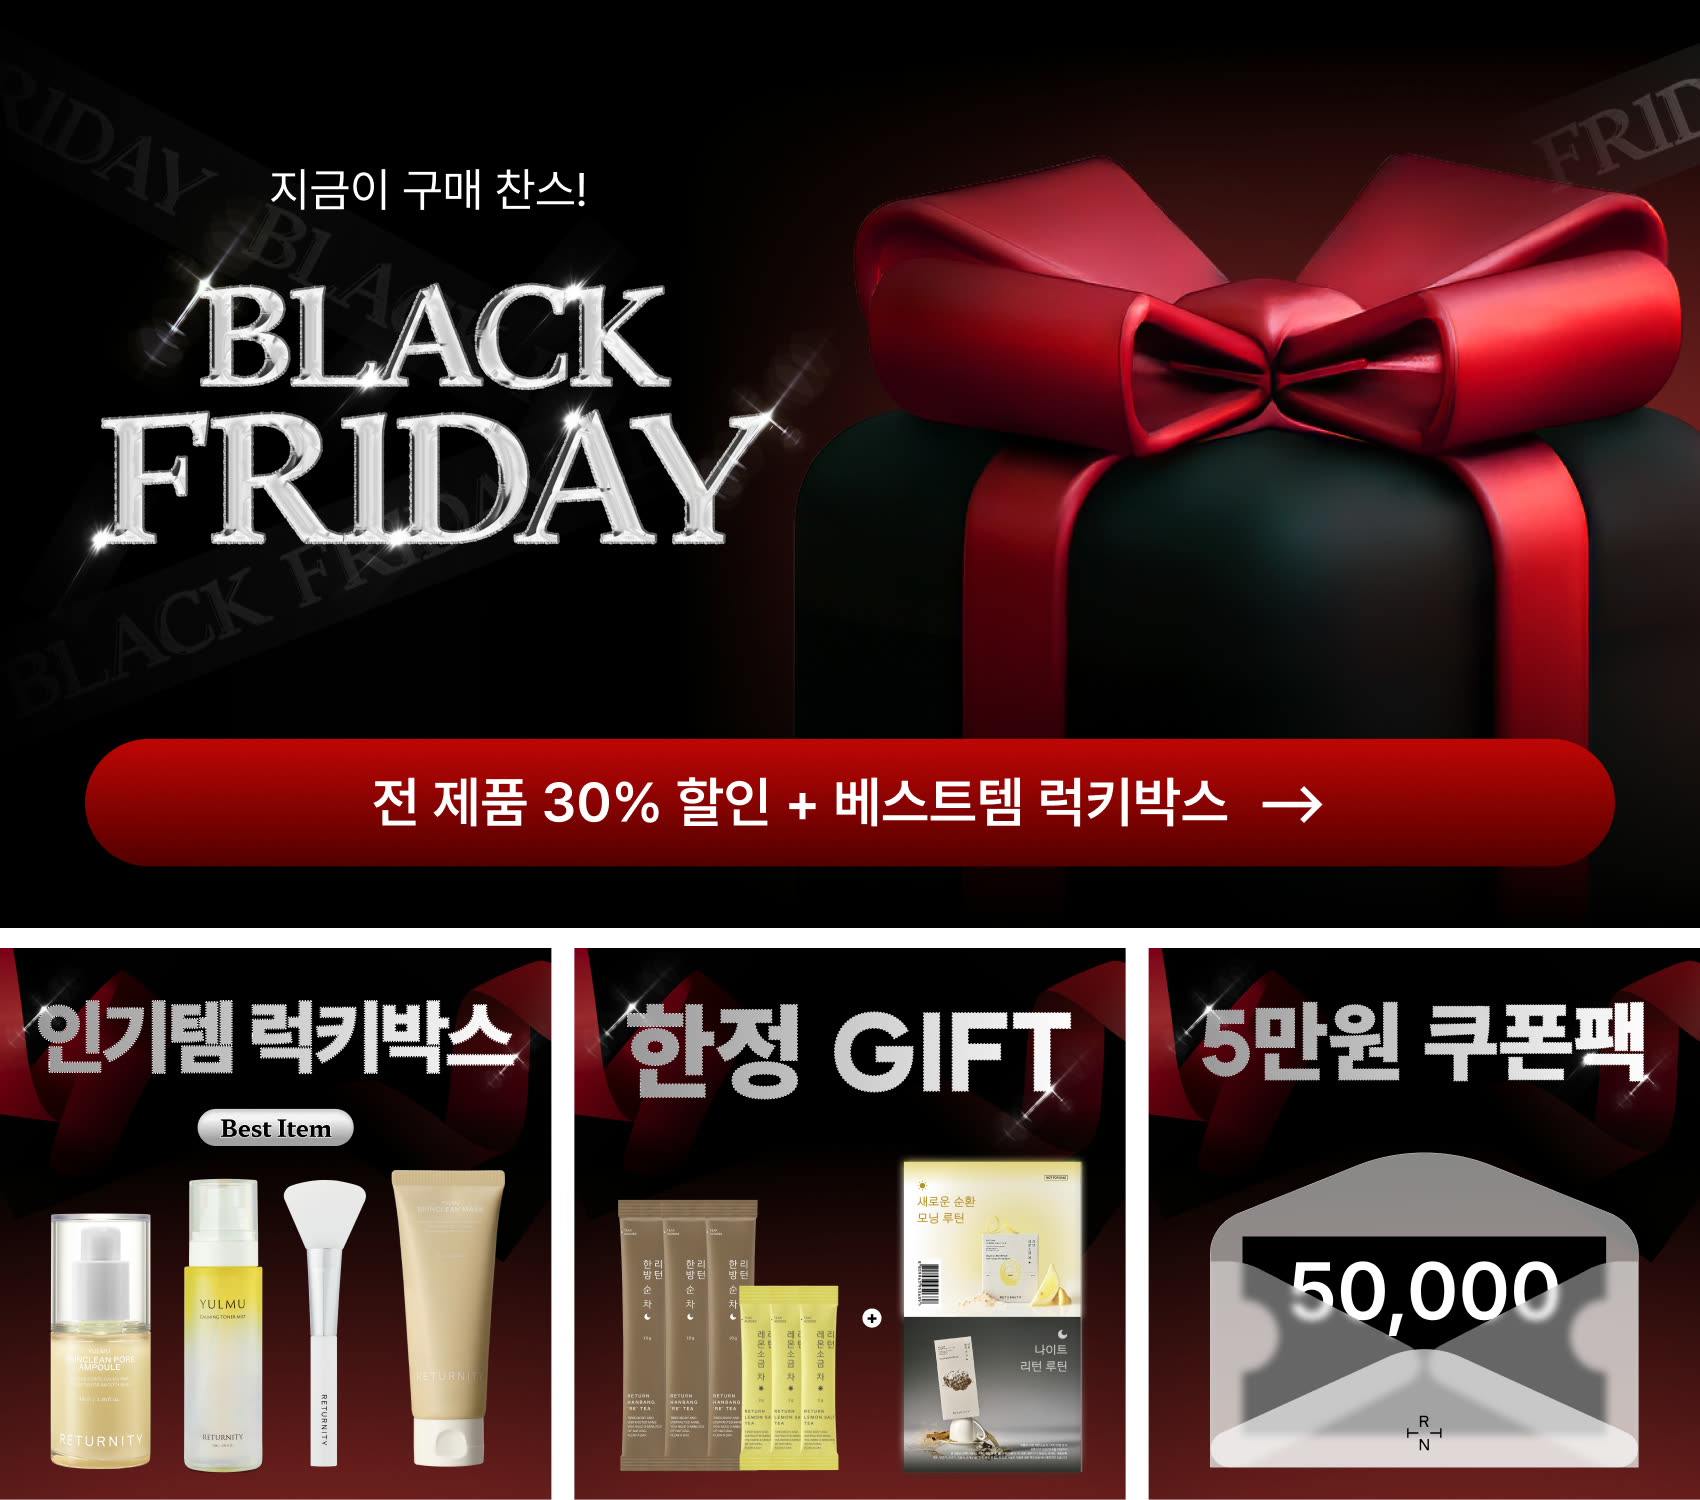
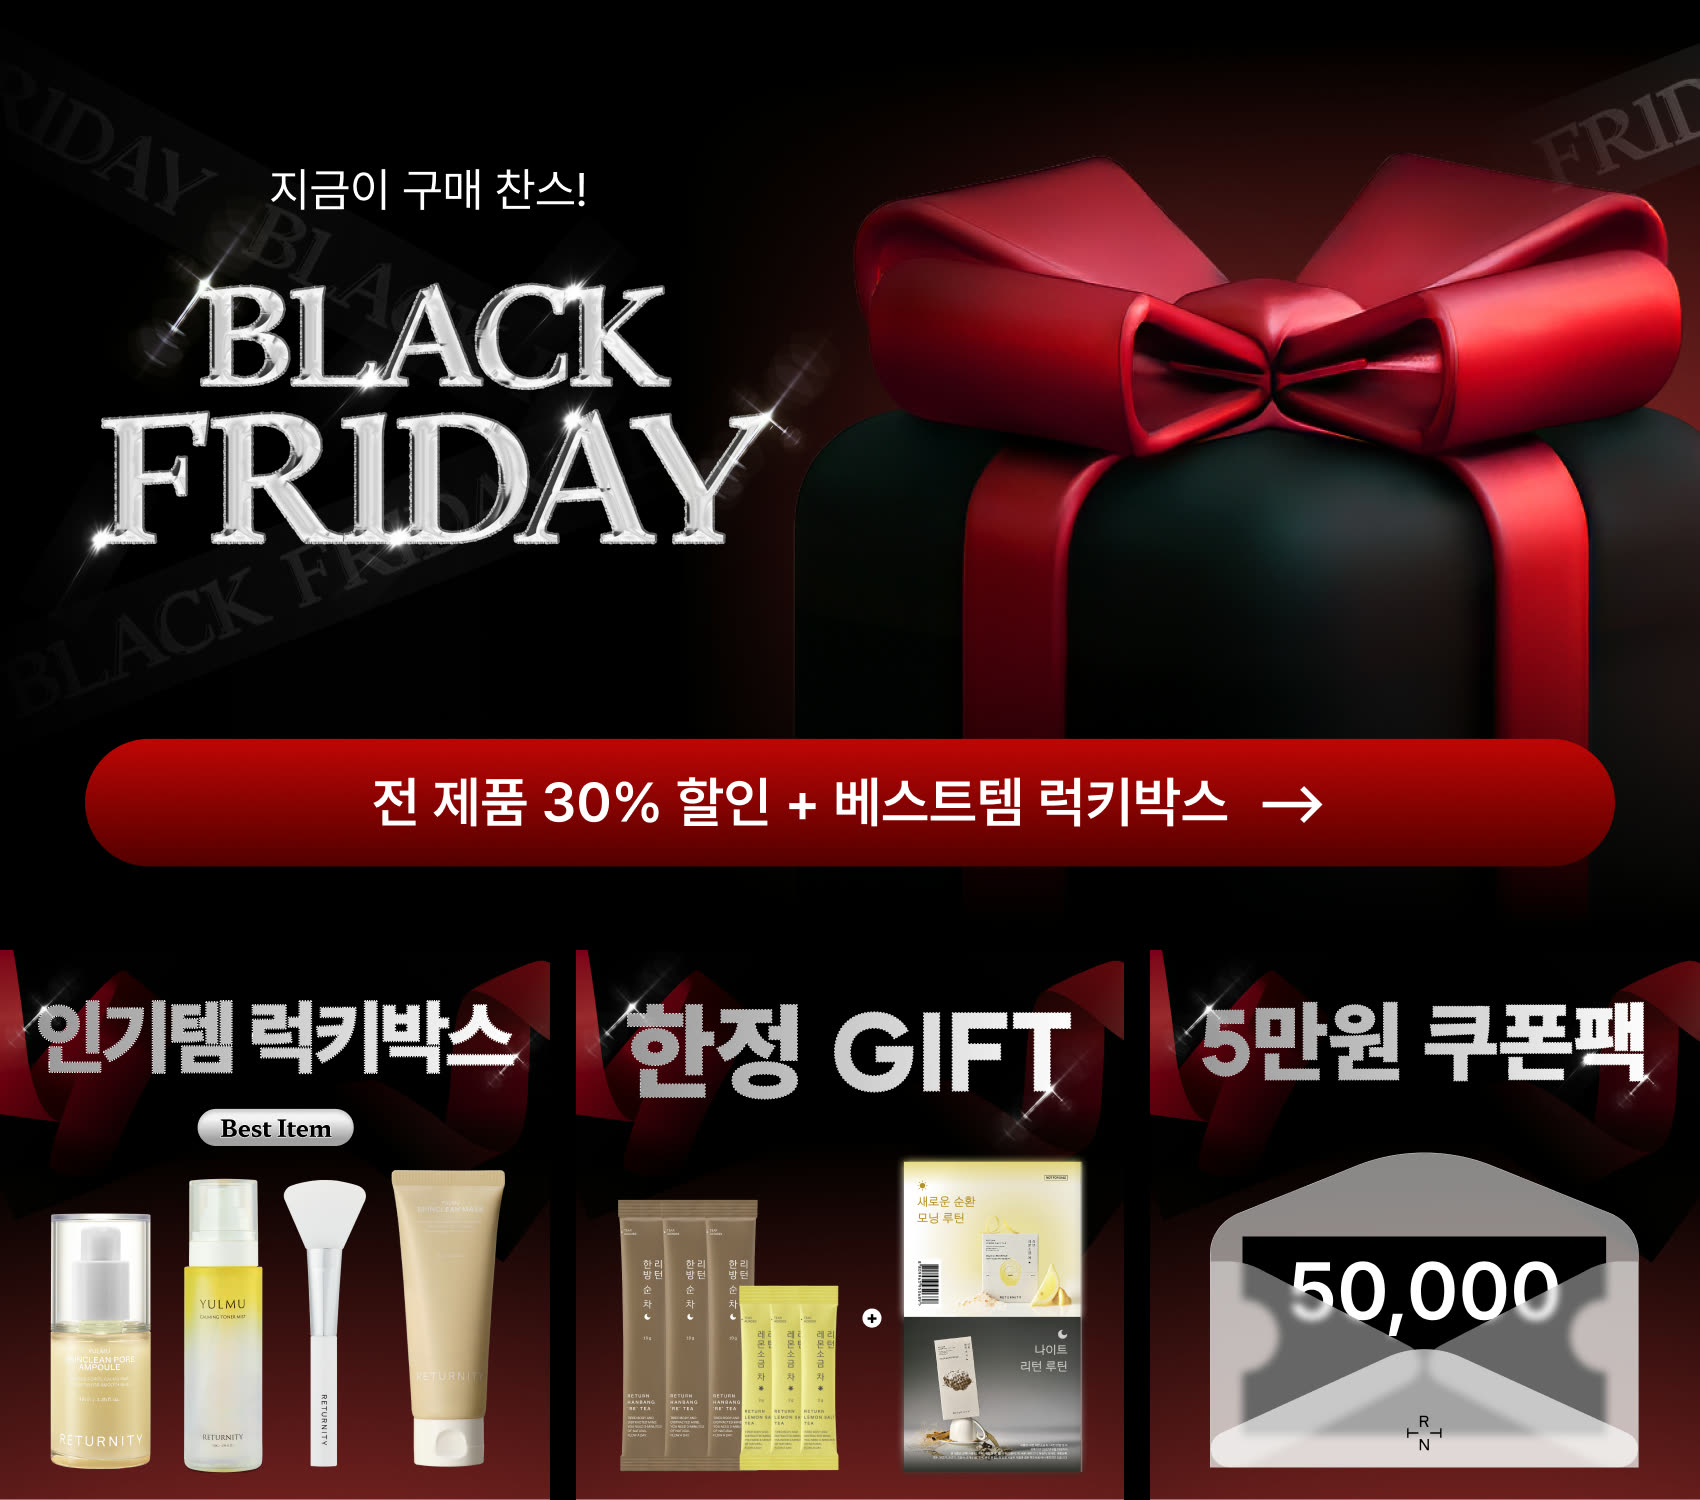
블프 배너 흰 줄 제거, 어워즈 랜딩 잘린 끝부분 복원
1) 블랙프라이데이 서브 배너(w2)의 흰 가로/세로 줄 제거
   Figma 프레임(610:5026) 배경이 흰색인데 카드 사이 여백으로 그대로
   노출된 것이었다. 내 크롭 문제가 아니라 원본 export 에 이미 들어 있었다
   (원본에서 y=928~947 20행, 세로 x=552~573 / 1126~1147 확인).
   페이지 배경이 검정이므로 같은 검정으로 메웠다. 잔여 흰 픽셀 0.

2) 2025 베스트 어워즈 랜딩 끝부분 복원
   Figma 원본(760x10177)은 조각 6개인데 4개만 받아 257px 이 잘려 있었다.
   빠진 건 63px 구분 띠와 195px 푸터(MORE THAN SKIN DEEP / © 2025
   RETURNITY / RN 로고) — 하필 마지막 조각이라 눈에 띄었다.
   a01b(127px) · a05(390px) 를 받아 순서대로 끼워 넣었다.
   조각 6개 합계가 Figma 10177 과 2px 오차(반올림)로 일치.

검증: 이미지 27/27 로드, 어워즈 랜딩 6조각·높이 7634px, 흰 줄 0행,
푸터 표시 확인, JS 에러 없음

Changed region(s): [[0.0, 0.6133, 1.0, 1.0]]

diff --git a/returnity-promo.html b/returnity-promo.html
@@ -1052,9 +1052,11 @@
     <div class="project-media">
       <div class="narrow-760 reveal">
         <img src="/media/returnity-promo/a01.jpg" alt="2025 리터니티 베스트 어워즈 랜딩" loading="lazy">
+        <img src="/media/returnity-promo/a01b.jpg" alt="" loading="lazy">
         <img src="/media/returnity-promo/a02.jpg" alt="어워즈 아이템 · 구매금액별 사은품" loading="lazy">
         <img src="/media/returnity-promo/a03.jpg" alt="선착순 사은품 · 멤버십 혜택" loading="lazy">
         <img src="/media/returnity-promo/a04.jpg" alt="수상 아이템 초특가" loading="lazy">
+        <img src="/media/returnity-promo/a05.jpg" alt="" loading="lazy">
       </div>
     </div>
 
